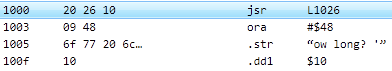
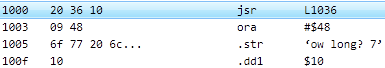
Add multi-inline extension script to tutorial
It's useful to have an example of an extension script that handles
multiple types of things.  It's also good to show that scripts can
handle data types other than strings, and can chase an address to
format data items elsewhere in the code.

This required updating the tutorial binary, adding the new script,
and updating the tutorial text and associated screen shots.

diff --git a/docs/sgtutorial/extension-scripts.html b/docs/sgtutorial/extension-scripts.html
@@ -131,11 +131,11 @@
 <div class="grid-container">
     <div class="grid-item-text">
         <p>Double-click the <code>JSR</code> opcode on line $1000
-        to jump to address $1026.  The only thing there is an <code>RTS</code>.
+        to jump to address $1036.  The only thing there is an <code>RTS</code>.
         It's supposed to be a routine that prints a string with a leading length
         byte, but for the sake of keeping the example code short it's just a
         place-holder.  Use the curly toolbar arrow
-        (or <kbd class="key">Alt+LeftArrow</kbd>) to jump back to $1026.</p>
+        (or <kbd class="key">Alt+LeftArrow</kbd>) to jump back to $1000.</p>
     </div>
 </div>
 
@@ -145,7 +145,7 @@
     </div>
     <div class="grid-item-text">
         <p>This time, double-click the <code>JSR</code> <i>operand</i>
-        ("<samp>L1026</samp>") to edit the operand.
+        ("<samp>L1036</samp>") to edit the operand.
         Click <samp>Create Label</samp>, and enter <kbd>PrintInlineL1String</kbd>.
         Remember that labels are case-sensitive;
         you must enter it exactly as shown.  Hit <samp>OK</samp> to accept the label,
@@ -189,12 +189,56 @@
         <img src="images/t4-inlinenull-done.png" alt="t4-inlinenull-done"/>
     </div>
     <div class="grid-item-text">
-        <p>Double-click the operand on line $100D ("<code>L1027</code>"),
+        <p>Double-click the operand on line $100D ("<code>L1037</code>"),
         click <samp>Create Label</samp>,
         and set the label to "<kbd>PrintInlineNullStringOne</kbd>".
         Hit <samp>OK</samp> twice.  That formatted the first one and got us
         to the next <code>JSR</code>.  Repeat the process on line $1019
-        ("<code>L1028</code>"), setting the label to "<kbd>PrintInlineNullStringTwo</kbd>".</p>
+        ("<code>L1038</code>"), setting the label to "<kbd>PrintInlineNullStringTwo</kbd>".</p>
+    </div>
+</div>
+
+<div class="grid-container">
+    <div class="grid-item-image">
+        <img src="images/t4-inlinemulti-before.png" alt="t4-inlinemulti-before"/>
+    </div>
+    <div class="grid-item-text">
+        <p>Things are looking good, but we've got one left, and it's got a
+        twist.  Instead of a string, the <code>JSR</code> at $1025 is followed by a
+        pointer to a string.  We'd like to format the pointer as an address,
+        and then format the string it points to.</p>
+    </div>
+</div>
+
+<div class="grid-container">
+    <div class="grid-item-image">
+        <img src="images/t4-inlinemulti-src.png" alt="t4-inlinemulti-src"/>
+    </div>
+    <div class="grid-item-text">
+        <p>We're going to add a third extension script.  Sometimes it's
+        convenient to collect all inline data handlers for a project into a
+        single script, so we'll demonstrate that here.  The new script handles
+        the previous two cases as well as this new case.
+        Go into Project
+        Properties, click the Extension Scripts tab, select the two scripts
+        you added earlier, and click Remove.  Then add the script "InlineMulti.cs"
+        from the project directory.  Click <samp>OK</samp> twice.  Note that
+        the strings formatted earlier remain formatted.</p>
+    </div>
+</div>
+
+<div class="grid-container">
+    <div class="grid-item-image">
+        <img src="images/t4-inlinemulti-done.png" alt="t4-inlinemulti-done"/>
+    </div>
+    <div class="grid-item-text">
+        <p>Double-click the operand on line $1025 ("<code>L1039</code>"),
+        click <samp>Create Label</samp>,
+        and set the label to "<kbd>PrintInlineAddrString</kbd>".
+        Hit <samp>OK</samp> twice.  This formatted the address at $1028,
+        and also formatted the string at $102b as a null-terminated string.
+        Because the bytes were formatted as an address and not a just a
+        16-bit value, a label was generated automatically.</p>
     </div>
 </div>
 

diff --git a/SourceGen/Examples/Tutorial/InlineMulti.cs b/SourceGen/Examples/Tutorial/InlineMulti.cs
@@ -1,0 +1,153 @@
+// Copyright 2021 faddenSoft. All Rights Reserved.
+// See the LICENSE.txt file for distribution terms (Apache 2.0).
+
+using System;
+using System.Collections.Generic;
+using PluginCommon;
+
+namespace ExtensionScriptSample {
+    /// <summary>
+    /// Formats three different kinds of inline functions:
+    ///
+    ///   PrintInlineL1String: format following data as L1 string
+    ///   PrintInlineNullString*: format following data as null-term string.
+    ///   PrintInlineAddrString*: format following data as 16-bit pointer to null-term string.
+    /// </summary>
+    public class InlineMultiData : MarshalByRefObject, IPlugin, IPlugin_SymbolList,
+            IPlugin_InlineJsr {
+        private IApplication mAppRef;
+        private byte[] mFileData;
+        private AddressTranslate mAddrTrans;
+
+        private const string L1STR_NAME = "PrintInlineL1String";
+        private const string NULLSTR_PREFIX = "PrintInlineNullString";
+        private const string ADDRSTR_PREFIX = "PrintInlineAddrString";
+        private enum InlineKind { Unknown = 0, L1Str, NullStr, AddrStr };
+
+        private Dictionary<int, InlineKind> mInlineLabels = new Dictionary<int, InlineKind>();
+
+        public string Identifier {
+            get {
+                return "Inline multi-data formatter";
+            }
+        }
+
+        public void Prepare(IApplication appRef, byte[] fileData, AddressTranslate addrTrans) {
+            mAppRef = appRef;
+            mFileData = fileData;
+            mAddrTrans = addrTrans;
+
+            mAppRef.DebugLog("InlineMultiData(id=" +
+                AppDomain.CurrentDomain.Id + "): prepare()");
+        }
+
+        public void Unprepare() {
+            mAppRef = null;
+            mFileData = null;
+            mAddrTrans = null;
+        }
+
+        public void UpdateSymbolList(List<PlSymbol> plSyms) {
+            mInlineLabels.Clear();
+
+            // Find matching symbols.  Save the symbol's value (its address) and the type.
+            // We want an exact match on L1STR_NAME, and prefix matches on the other two.
+            foreach (PlSymbol sym in plSyms) {
+                if (sym.Label.Equals(L1STR_NAME)) {
+                    mInlineLabels.Add(sym.Value, InlineKind.L1Str);
+                } else if (sym.Label.StartsWith(NULLSTR_PREFIX)) {
+                    mInlineLabels.Add(sym.Value, InlineKind.NullStr);
+                } else if (sym.Label.StartsWith(ADDRSTR_PREFIX)) {
+                    mInlineLabels.Add(sym.Value, InlineKind.AddrStr);
+                }
+            }
+            mAppRef.DebugLog("Found matches for " + mInlineLabels.Count + " labels");
+        }
+
+        public bool IsLabelSignificant(string beforeLabel, string afterLabel) {
+            return DoesLabelMatch(beforeLabel) || DoesLabelMatch(afterLabel);
+        }
+        private static bool DoesLabelMatch(string label) {
+            return (label.Equals(L1STR_NAME) ||
+                label.StartsWith(NULLSTR_PREFIX) ||
+                label.StartsWith(ADDRSTR_PREFIX));
+        }
+
+        public void CheckJsr(int offset, int operand, out bool noContinue) {
+            noContinue = false;
+
+            InlineKind kind;
+            if (!mInlineLabels.TryGetValue(operand, out kind)) {
+                return;
+            }
+
+            switch (kind) {
+                case InlineKind.L1Str:
+                    // Length-delimited ASCII string
+                    FormatL1String(offset + 3);
+                    break;
+                case InlineKind.NullStr:
+                    // Null-terminated ASCII string.
+                    FormatNullTermString(offset + 3);
+                    break;
+                case InlineKind.AddrStr:
+                    // Pointer to data.  Format as address.  Start by confirming next two
+                    // bytes are inside the file bounds.
+                    if (!Util.IsInBounds(mFileData, offset + 3, 2)) {
+                        return;
+                    }
+                    // Format 16-bit value as an address.
+                    mAppRef.SetInlineDataFormat(offset + 3, 2,
+                        DataType.NumericLE, DataSubType.Address, null);
+
+                    // Now format the string that the address points to.  Extract the
+                    // address from the operand.
+                    int strAddr = Util.GetWord(mFileData, offset + 3, 2, false);
+                    // Convert the address to a file offset.  Returns -1 if not in file bounds.
+                    int strOff = mAddrTrans.AddressToOffset(offset, strAddr);
+                    // Format it if it's in bounds.
+                    FormatNullTermString(strOff);
+                    break;
+            }
+        }
+
+        private void FormatL1String(int offset) {
+            if (offset < 0 || offset >= mFileData.Length) {
+                return;     // length byte is not inside file
+            }
+            int len = mFileData[offset];
+            if (offset + 1 + len > mFileData.Length) {
+                mAppRef.DebugLog("L1 string ran off end of file at +" +
+                    (offset + 1).ToString("x6"));
+                return;
+            }
+
+            // Assuming ASCII.
+            mAppRef.SetInlineDataFormat(offset, len + 1,
+                DataType.StringL8, DataSubType.Ascii, null);
+        }
+
+        private void FormatNullTermString(int offset) {
+            if (offset < 0 || offset >= mFileData.Length) {
+                return;     // start is not inside file
+            }
+            // search for the terminating null byte
+            int nullOff = offset;
+            while (nullOff < mFileData.Length) {
+                if (mFileData[nullOff] == 0x00) {
+                    break;
+                }
+                nullOff++;
+            }
+            if (nullOff == mFileData.Length) {
+                mAppRef.DebugLog("Unable to find end of null-terminated string at +" +
+                    offset.ToString("x6"));
+                return;
+            }
+
+            // Assuming ASCII.
+            mAppRef.SetInlineDataFormat(offset, nullOff - offset + 1,
+                DataType.StringNullTerm, DataSubType.Ascii, null);
+        }
+    }
+}

diff --git a/SourceGen/Examples/Tutorial/InlineL1String.cs b/SourceGen/Examples/Tutorial/InlineL1String.cs
@@ -3,7 +3,6 @@
 
 using System;
 using System.Collections.Generic;
-
 using PluginCommon;
 
 namespace ExtensionScriptSample {
@@ -15,7 +14,7 @@ namespace ExtensionScriptSample {
         private IApplication mAppRef;
         private byte[] mFileData;
 
-        // Only one call.
+        // Only one label.
         private const string CALL_LABEL = "PrintInlineL1String";
         private int mInlineL1StringAddr;      // jsr
 
@@ -62,7 +61,7 @@ namespace ExtensionScriptSample {
             if (offset + 3 >= mFileData.Length) {
                 return;     // length byte is off end
             }
-            int len = mFileData[3];     // first byte past JSR
+            int len = mFileData[offset + 3];     // first byte past JSR
             if (offset + 4 + len > mFileData.Length) {
                 mAppRef.DebugLog("L1 string ran off end of file at +" +
                     (offset + 4).ToString("x6"));

diff --git a/SourceGen/Examples/Tutorial/InlineNullTermString.cs b/SourceGen/Examples/Tutorial/InlineNullTermString.cs
@@ -3,7 +3,6 @@
 
 using System;
 using System.Collections.Generic;
-
 using PluginCommon;
 
 namespace ExtensionScriptSample {
@@ -41,6 +40,7 @@ namespace ExtensionScriptSample {
         public void UpdateSymbolList(List<PlSymbol> plSyms) {
             mNullStringAddrs.Clear();
 
+            // Find matching symbols.
             foreach (PlSymbol sym in plSyms) {
                 if (sym.Label.StartsWith(LABEL_PREFIX)) {
                     mNullStringAddrs.Add(sym.Value, sym);
@@ -61,7 +61,7 @@ namespace ExtensionScriptSample {
             // search for the terminating null byte
             int nullOff = offset + 3;
             while (nullOff < mFileData.Length) {
-                if (mFileData[nullOff] == 0) {
+                if (mFileData[nullOff] == 0x00) {
                     break;
                 }
                 nullOff++;
